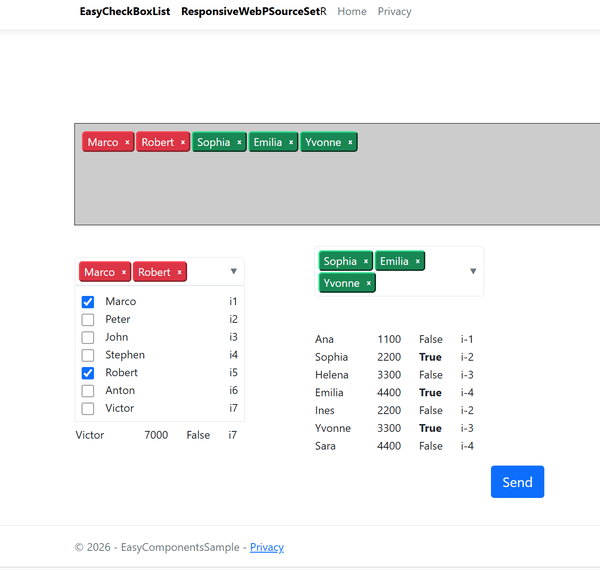
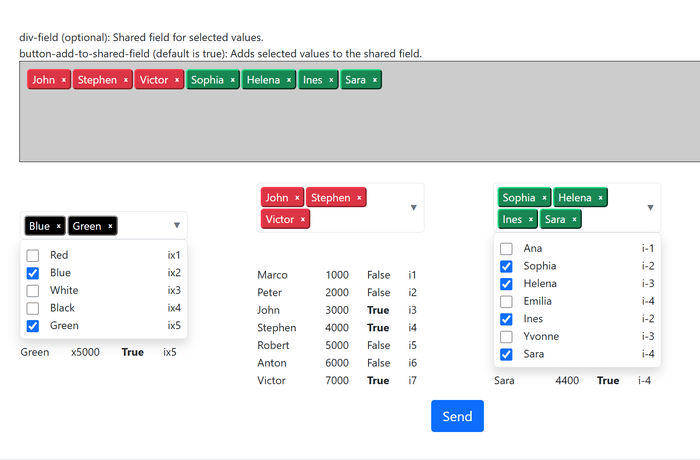
Shared field

diff --git a/EasyComponentsSample/wwwroot/js/EasyCheckBoxList.js b/EasyComponentsSample/wwwroot/js/EasyCheckBoxList.js
@@ -56,7 +56,11 @@ class CheckDropDown {
     Refresh() {
         const id_easycblist_All = document.getElementById("id_easycblist_All");
         const prefix = this.content.dataset.easycbprefix;
-        id_easycblist_All.querySelectorAll(`button[data-checkid^="${prefix}"]`).forEach(btn => btn.remove());
+        const buttonaddtosharedfield = this.content.dataset.buttonaddtosharedfield;
+  
+        if (id_easycblist_All) {
+            id_easycblist_All.querySelectorAll(`button[data-checkid^="${prefix}"]`).forEach(btn => btn.remove());
+        }
 
         if (!this.content) { return; }
 
@@ -78,12 +82,13 @@ class CheckDropDown {
         const fragment2 = fragment.cloneNode(true);
         this.content.replaceChildren(fragment);
 
-        id_easycblist_All.appendChild(fragment2);
-        id_easycblist_All.querySelectorAll(`button[data-checkid^="${prefix}"]`)
-            .forEach(btn => {
-                btn.onclick = () => { this.container.querySelector(`[data-checkid="${btn.dataset.checkid}"]`) ?.click();};
-            });
-   
+        if (id_easycblist_All && buttonaddtosharedfield === "true") {
+            id_easycblist_All.appendChild(fragment2);
+            id_easycblist_All.querySelectorAll(`button[data-checkid^="${prefix}"]`)
+                .forEach(btn => {
+                    btn.onclick = () => { this.container.querySelector(`[data-checkid="${btn.dataset.checkid}"]`)?.click(); };
+                });
+        }
         // const totalWidth =
         //     [...this.content.querySelectorAll('[data-checkid]')]
         //         .reduce((sum, btn) => sum + btn.offsetWidth, 0);

diff --git a/EasyComponentsSample/wwwroot/css/EasyCheckBoxList.css b/EasyComponentsSample/wwwroot/css/EasyCheckBoxList.css
@@ -34,6 +34,8 @@
     z-index: 1000;
     max-height: 250px;
     overflow-y: auto;
+    border-radius: 0.375rem;
+    box-shadow: 0 .5rem 1rem rgba(0,0,0,.15);
 }
 
 [data-easycblist="start"] table {

diff --git a/EasyComponentsSample/Pages/EasyCheckBoxList.cshtml.cs b/EasyComponentsSample/Pages/EasyCheckBoxList.cshtml.cs
@@ -16,6 +16,14 @@ namespace EasyComponentsSample.Pages
 
         public async Task OnGetAsync()
         {
+
+            var list0 = new List<TestModel0>();
+            list0.Add(new TestModel0 { Name = "Red", Value = "x100", Info = "ix1", Checked = false });
+            list0.Add(new TestModel0 { Name = "Blue", Value = "x2000", Info = "ix2", Checked = false });
+            list0.Add(new TestModel0 { Name = "White", Value = "x3000", Info = "ix3", Checked = false });
+            list0.Add(new TestModel0 { Name = "Black", Value = "x4000", Info = "ix4", Checked = false });
+            list0.Add(new TestModel0 { Name = "Green", Value = "x5000", Info = "ix5", Checked = false });
+
             var list1 = new List<TestModel1>();
             list1.Add(new TestModel1 { Name_1 = "Marco", Value_1 = "1000", Info_1 = "i1", Checked_1 = false });
             list1.Add(new TestModel1 { Name_1 = "Peter", Value_1 = "2000", Info_1 = "i2", Checked_1 = false });
@@ -34,6 +42,7 @@ namespace EasyComponentsSample.Pages
             list2.Add(new TestModel2 { Name_2 = "Yvonne", Value_2 = "3300", Info_2 = "i-3", Checked_2 = false });
             list2.Add(new TestModel2 { Name_2 = "Sara", Value_2 = "4400", Info_2 = "i-4", Checked_2 = false });
 
+            testModels.List0 = list0;
             testModels.List1 = list1;
             testModels.List2 = list2;
         }

diff --git a/EasyComponentsSample/Models/Models.cs b/EasyComponentsSample/Models/Models.cs
@@ -1,5 +1,13 @@
 namespace EasyComponentsSample.Models
 {
+    public class TestModel0
+    {
+        public string Name { get; set; } = string.Empty;
+        public string Value { get; set; } = string.Empty;
+        public string Info { get; set; } = string.Empty;
+        public bool Checked { get; set; }
+    }
+
     public class TestModel1
     {
         public string Name_1 { get; set; } = string.Empty;
@@ -13,10 +21,12 @@
         public string Value_2 { get; set; } = string.Empty;
         public string Info_2 { get; set; } = string.Empty;
         public bool Checked_2 { get; set; }
-
     }
+
+
     public class TestModel
     {
+        public List<TestModel0> List0 { get; set; } = new();
         public List<TestModel1> List1 { get; set; } = new();
         public List<TestModel2> List2 { get; set; } = new();
     }
